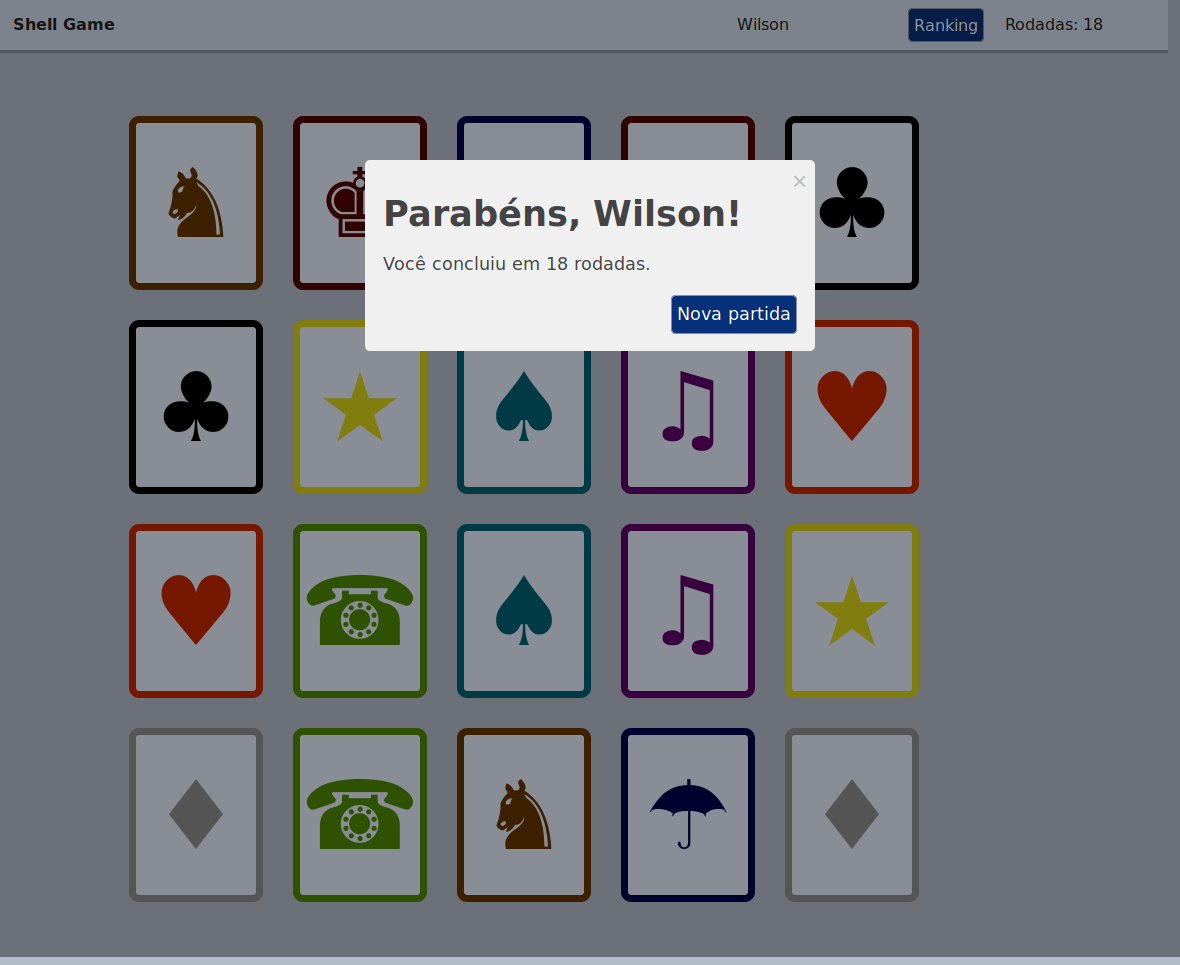
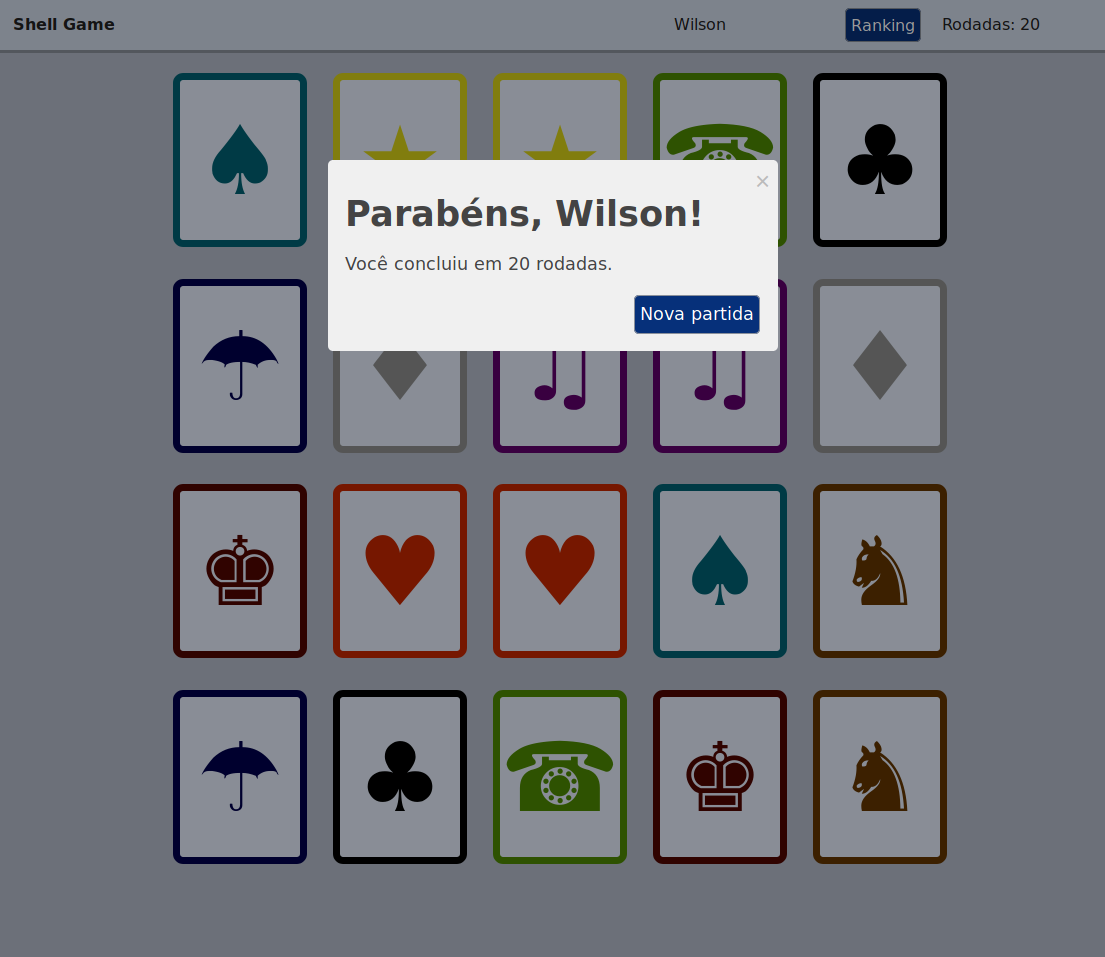
Ajuste de alinhamento. Prints atualizados.

diff --git a/app/board/board.css b/app/board/board.css
@@ -1,7 +1,7 @@
 div.board {
-  padding: 3em;
   max-width: 940px;
   margin: 0 auto;
+  text-align: center;
 }
 
 div.card-container {
@@ -37,6 +37,9 @@ div.card > div {
   backface-visibility: hidden;
 }
 
+/*
+ * A frente da carta está rotacionada; apresenta-se o verso
+ */
 div.card > .front {
   transform: rotateY(180deg);
 }
